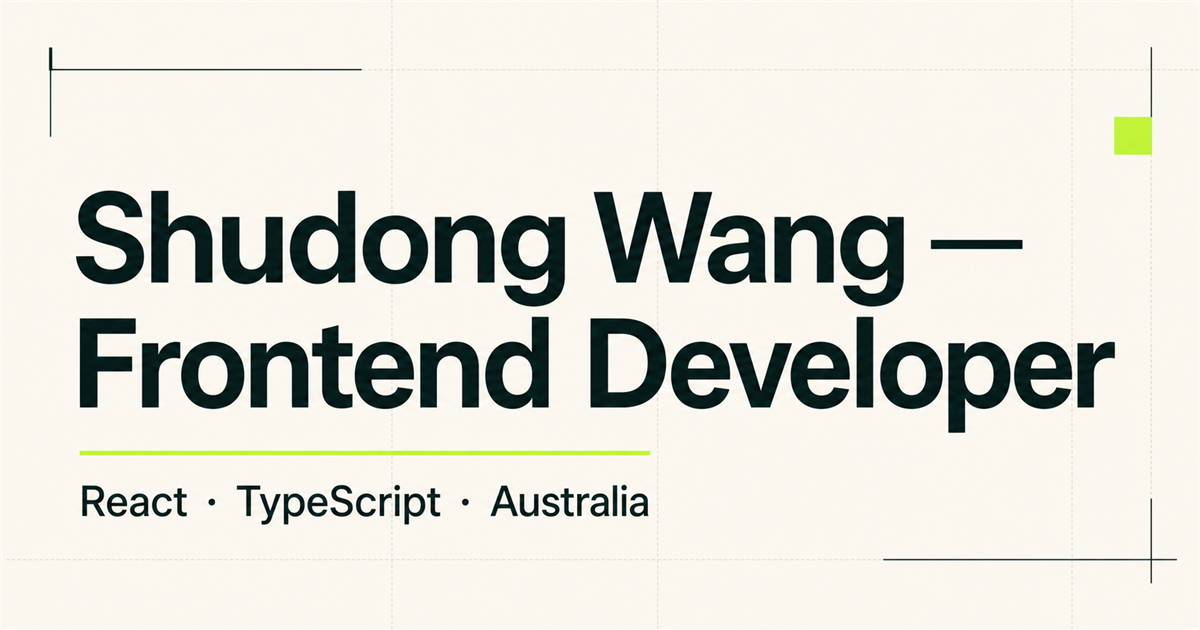
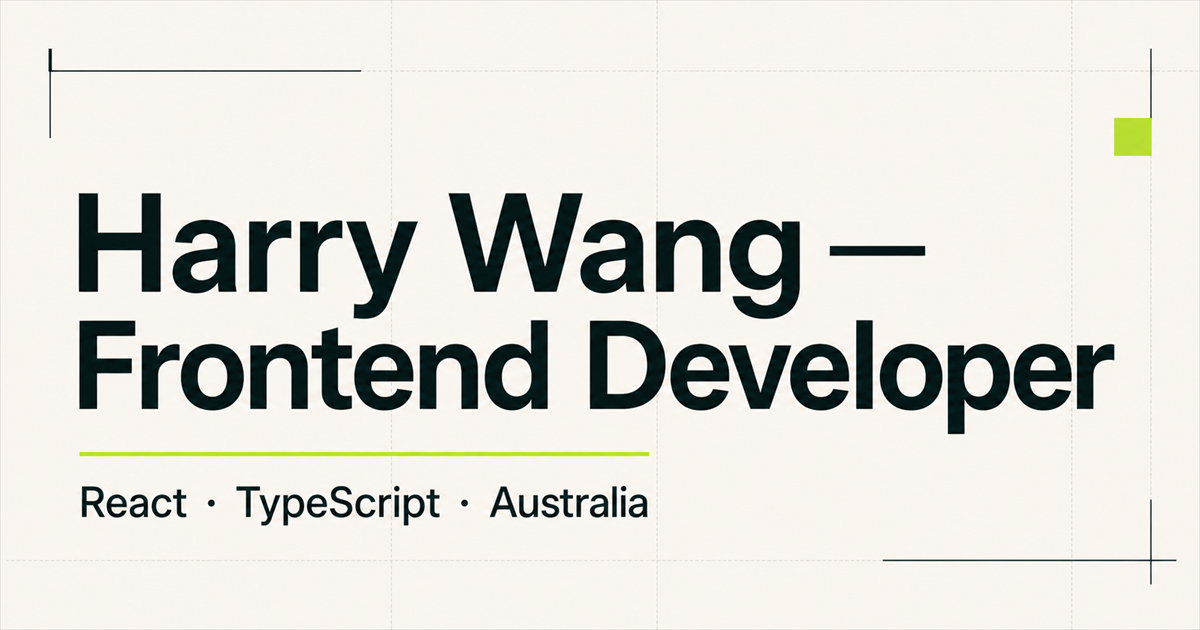
Rename portfolio to Harry Wang

diff --git a/frontend_react/index.html b/frontend_react/index.html
@@ -5,19 +5,19 @@
     <link rel="icon" type="image/png" href="/favicon.png" />
     <meta name="viewport" content="width=device-width, initial-scale=1.0" />
     <meta name="theme-color" content="#152220" />
-    <meta name="description" content="Shudong Wang is a React and TypeScript developer based in Australia, building accessible and responsive web experiences." />
+    <meta name="description" content="Harry Wang is a React and TypeScript developer based in Australia, building accessible and responsive web experiences." />
     <meta property="og:type" content="website" />
-    <meta property="og:title" content="Shudong Wang — Frontend Developer" />
+    <meta property="og:title" content="Harry Wang — Frontend Developer" />
     <meta property="og:description" content="React and TypeScript developer based in Australia, building accessible and responsive web experiences." />
-    <meta property="og:image" content="https://tinyrattlesnake.github.io/EulaPortfolio/og.png" />
+    <meta property="og:image" content="https://tinyrattlesnake.github.io/HarryWang/og.png" />
     <meta property="og:image:width" content="1200" />
     <meta property="og:image:height" content="630" />
     <meta name="twitter:card" content="summary_large_image" />
-    <meta name="twitter:title" content="Shudong Wang — Frontend Developer" />
+    <meta name="twitter:title" content="Harry Wang — Frontend Developer" />
     <meta name="twitter:description" content="React and TypeScript developer based in Australia, building accessible and responsive web experiences." />
-    <meta name="twitter:image" content="https://tinyrattlesnake.github.io/EulaPortfolio/og.png" />
-    <link rel="canonical" href="https://tinyrattlesnake.github.io/EulaPortfolio/" />
-    <title>Shudong Wang — Frontend Developer</title>
+    <meta name="twitter:image" content="https://tinyrattlesnake.github.io/HarryWang/og.png" />
+    <link rel="canonical" href="https://tinyrattlesnake.github.io/HarryWang/" />
+    <title>Harry Wang — Frontend Developer</title>
   </head>
   <body>
     <div id="root"></div>

diff --git a/frontend_react/src/data/portfolio.ts b/frontend_react/src/data/portfolio.ts
@@ -22,7 +22,7 @@ export const projects: Project[] = [
     challenge: 'The original site relied on remote CMS data, exposed a browser token and showed empty sections when requests failed.',
     solution: 'Reframed the content around recruiter needs, moved essential data local, added semantic controls and introduced repeatable quality checks.',
     tags: ['React', 'TypeScript', 'Vite', 'Accessibility'],
-    href: 'https://github.com/TinyRattleSnake',
+    href: 'https://github.com/TinyRattleSnake/HarryWang',
   },
   {
     title: 'Sanity Content Studio',
@@ -33,7 +33,7 @@ export const projects: Project[] = [
     challenge: 'Portfolio content needed to be editable without changing component code every time.',
     solution: 'Designed reusable Sanity schemas and connected typed React views while learning where a CMS adds value—and where it adds unnecessary complexity.',
     tags: ['Sanity', 'GROQ', 'Schema design', 'React'],
-    href: 'https://github.com/TinyRattleSnake',
+    href: 'https://github.com/TinyRattleSnake/HarryWang/tree/main/backend_sanity',
   },
 ];
 

diff --git a/frontend_react/src/container/Header/Header.tsx b/frontend_react/src/container/Header/Header.tsx
@@ -19,7 +19,7 @@ const Header = () => (
         Reliable code.
       </h1>
       <p className="hero__intro">
-        I&apos;m Shudong Wang, a React and TypeScript developer focused on accessible,
+        I&apos;m Harry Wang, a React and TypeScript developer focused on accessible,
         responsive web experiences that feel clear and purposeful.
       </p>
       <div className="hero__actions">
@@ -39,7 +39,7 @@ const Header = () => (
       transition={{ duration: 0.7, delay: 0.12, ease: 'easeOut' }}
     >
       <div className="hero__image-frame">
-        <img src={images.profile} alt="Shudong Wang" />
+        <img src={images.profile} alt="Harry Wang" />
       </div>
       <div className="hero__stack" aria-label="Core technologies">
         <span>React</span><span>TypeScript</span><span>Vite</span>

diff --git a/frontend_react/src/container/Footer/Footer.tsx b/frontend_react/src/container/Footer/Footer.tsx
@@ -13,11 +13,11 @@ const Footer = () => (
     </div>
 
     <div className="footer__bottom">
-      <p>Shudong Wang · Frontend Developer · Australia</p>
+      <p>Harry Wang · Frontend Developer · Australia</p>
       <a href="https://github.com/TinyRattleSnake" target="_blank" rel="noreferrer">
         <AiFillGithub aria-hidden="true" /> GitHub <span className="sr-only">(opens in a new tab)</span>
       </a>
-      <p>© {new Date().getFullYear()} Shudong Wang</p>
+      <p>© {new Date().getFullYear()} Harry Wang</p>
     </div>
   </footer>
 );

diff --git a/frontend_react/src/App.test.tsx b/frontend_react/src/App.test.tsx
@@ -7,6 +7,7 @@ describe('portfolio', () => {
     render(<App />);
 
     expect(screen.getByRole('heading', { name: /frontend developer/i, level: 1 })).toBeInTheDocument();
+    expect(screen.getByText(/i'm harry wang/i)).toBeInTheDocument();
     expect(screen.getByRole('navigation', { name: /primary navigation/i })).toBeInTheDocument();
     expect(screen.getByRole('link', { name: /view selected work/i })).toHaveAttribute('href', '#work');
   });

diff --git a/frontend_react/src/components/Navbar/Navbar.tsx b/frontend_react/src/components/Navbar/Navbar.tsx
@@ -20,8 +20,8 @@ const Navbar = () => {
 
   return (
     <nav className="app__navbar" aria-label="Primary navigation">
-      <a className="app__navbar-logo" href="#home" aria-label="Shudong Wang, home">
-        <img src={images.logo} alt="Shudong Wang" />
+      <a className="app__navbar-logo" href="#home" aria-label="Harry Wang, home">
+        <img src={images.logo} alt="Harry Wang" />
       </a>
 
       <ul className="app__navbar-links">

diff --git a/README.md b/README.md
@@ -1,4 +1,4 @@
-# Shudong Wang — Frontend Developer Portfolio
+# Harry Wang — Frontend Developer Portfolio
 
 A responsive portfolio rebuilt from an early React learning project into a secure, typed and accessible site for the Australian job market.
 

diff --git a/frontend_react/README.md b/frontend_react/README.md
@@ -1,6 +1,6 @@
 # Portfolio frontend
 
-The production-facing React application for Shudong Wang's developer portfolio.
+The production-facing React application for Harry Wang's developer portfolio.
 
 From this directory:
 
